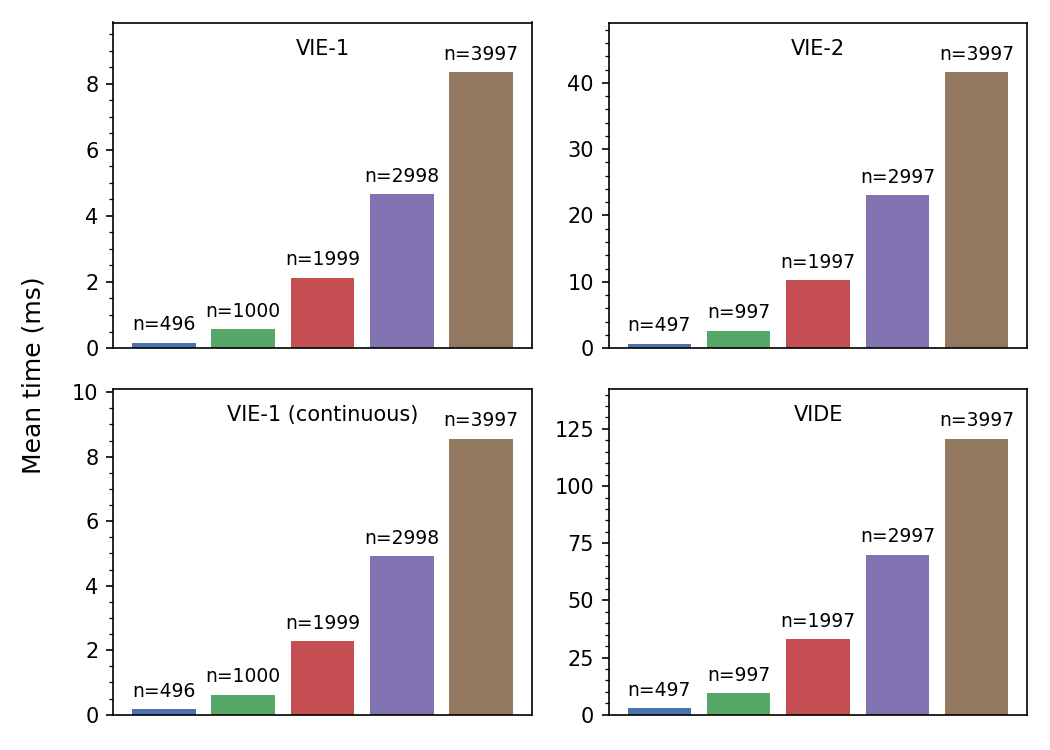
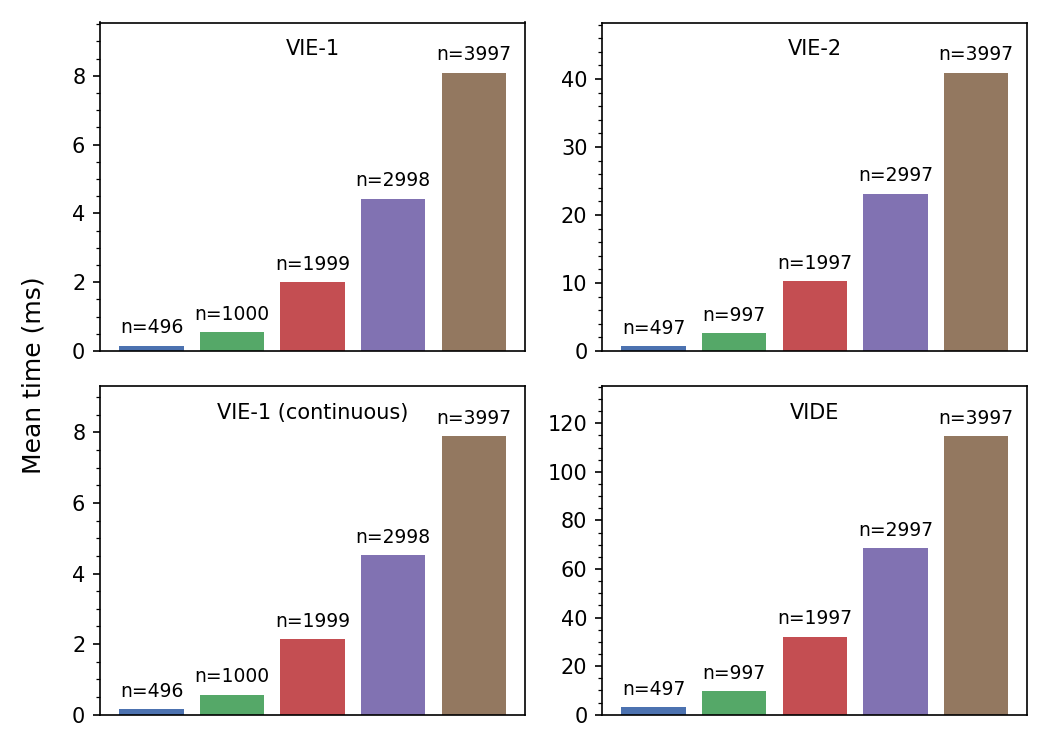
Add vector solver benchmarks, charts, and README section
- bench_solvers.py: add d=2 benchmarks for VIE-1 vec, VIE-2 vec, VIDE vec
  (5 problem sizes each, skipped if D extension unavailable)
- plot_results.py: refactored to generate both results.png (scalar) and
  results_vec.png (vector) from a single benchmark JSON run
- bench.yml: commit both chart files on benchmark runs
- README.md: add Vector-valued systems section with 2x2 VIE-2 example
  and reference both benchmark charts

diff --git a/benchmarks/bench_solvers.py b/benchmarks/bench_solvers.py
@@ -1,6 +1,11 @@
 import numpy as np
 import pytest
 from volterra_equation_solvers import solve_VIE_1, solve_VIE_2, solve_VIDE
+from volterra_equation_solvers._dlang import available as _dlang_available
+
+_requires_dlang = pytest.mark.skipif(
+    not _dlang_available, reason="D extension not available"
+)
 
 # --- VIE-2 (coll_divs=2, pts = n_intervals*4+1) ---
 
@@ -126,3 +131,134 @@ def test_vide_4000(benchmark):
     kernel, g, a, dt = _vide_inputs(999)       # 3997 pts
     benchmark(solve_VIDE, kernel_values=kernel, g_values=g, a_values=a,
               soln_init_value=0.0, time_step=dt)
+
+
+# --- Vector VIE-1  (d=2, coll_divs=3, pts = n_intervals*9+1) ---
+# Diagonal system: K(s) = exp(s)*I₂, y=[sin t, sin t], g=[sin t, sin t]
+
+def _vie1_vec_inputs(n_intervals):
+    time_step = 0.01
+    num_pts = n_intervals * 9 + 1
+    times = np.arange(num_pts) * time_step
+    kernel = np.zeros((num_pts, 2, 2))
+    kernel[:, 0, 0] = np.exp(times)
+    kernel[:, 1, 1] = np.exp(times)
+    g = np.column_stack([np.sin(times), np.sin(times)])
+    g[0] = 0.0
+    return kernel, g, time_step
+
+@_requires_dlang
+def test_vie1_vec_500(benchmark):
+    kernel, g, dt = _vie1_vec_inputs(55)       # 496 pts
+    benchmark(solve_VIE_1, kernel_values=kernel, g_values=g, time_step=dt)
+
+@_requires_dlang
+def test_vie1_vec_1000(benchmark):
+    kernel, g, dt = _vie1_vec_inputs(111)      # 1000 pts
+    benchmark(solve_VIE_1, kernel_values=kernel, g_values=g, time_step=dt)
+
+@_requires_dlang
+def test_vie1_vec_2000(benchmark):
+    kernel, g, dt = _vie1_vec_inputs(222)      # 1999 pts
+    benchmark(solve_VIE_1, kernel_values=kernel, g_values=g, time_step=dt)
+
+@_requires_dlang
+def test_vie1_vec_3000(benchmark):
+    kernel, g, dt = _vie1_vec_inputs(333)      # 2998 pts
+    benchmark(solve_VIE_1, kernel_values=kernel, g_values=g, time_step=dt)
+
+@_requires_dlang
+def test_vie1_vec_4000(benchmark):
+    kernel, g, dt = _vie1_vec_inputs(444)      # 3997 pts
+    benchmark(solve_VIE_1, kernel_values=kernel, g_values=g, time_step=dt)
+
+
+# --- Vector VIE-2  (d=2, coll_divs=2, pts = n_intervals*4+1) ---
+# Diagonal system: K(s) = exp(-s)*I₂, y=[sin t, sin t]
+
+def _vie2_vec_inputs(n_intervals):
+    time_step = 0.05
+    num_pts = n_intervals * 4 + 1
+    times = np.arange(num_pts) * time_step
+    kernel = np.zeros((num_pts, 2, 2))
+    kernel[:, 0, 0] = np.exp(-times)
+    kernel[:, 1, 1] = np.exp(-times)
+    rhs = np.sin(times) - 0.5 * (np.exp(-times) + np.sin(times) - np.cos(times))
+    g = np.column_stack([rhs, rhs])
+    return kernel, g, time_step
+
+@_requires_dlang
+def test_vie2_vec_500(benchmark):
+    kernel, g, dt = _vie2_vec_inputs(124)      # 497 pts
+    benchmark(solve_VIE_2, kernel_values=kernel, g_values=g, time_step=dt)
+
+@_requires_dlang
+def test_vie2_vec_1000(benchmark):
+    kernel, g, dt = _vie2_vec_inputs(249)      # 997 pts
+    benchmark(solve_VIE_2, kernel_values=kernel, g_values=g, time_step=dt)
+
+@_requires_dlang
+def test_vie2_vec_2000(benchmark):
+    kernel, g, dt = _vie2_vec_inputs(499)      # 1997 pts
+    benchmark(solve_VIE_2, kernel_values=kernel, g_values=g, time_step=dt)
+
+@_requires_dlang
+def test_vie2_vec_3000(benchmark):
+    kernel, g, dt = _vie2_vec_inputs(749)      # 2997 pts
+    benchmark(solve_VIE_2, kernel_values=kernel, g_values=g, time_step=dt)
+
+@_requires_dlang
+def test_vie2_vec_4000(benchmark):
+    kernel, g, dt = _vie2_vec_inputs(999)      # 3997 pts
+    benchmark(solve_VIE_2, kernel_values=kernel, g_values=g, time_step=dt)
+
+
+# --- Vector VIDE  (d=2, coll_divs=2, pts = n_intervals*4+1) ---
+# Diagonal system: K(s) = exp(-s)*I₂, a(t) = 1/(1+t²)*I₂, y=[sin t, sin t]
+
+def _vide_vec_inputs(n_intervals):
+    time_step = 0.01
+    num_pts = n_intervals * 4 + 1
+    times = np.arange(num_pts) * time_step
+    kernel = np.zeros((num_pts, 2, 2))
+    a = np.zeros((num_pts, 2, 2))
+    kernel[:, 0, 0] = np.exp(-times)
+    kernel[:, 1, 1] = np.exp(-times)
+    a[:, 0, 0] = 1.0 / (1.0 + times**2)
+    a[:, 1, 1] = 1.0 / (1.0 + times**2)
+    rhs = (np.cos(times)
+           - 0.5 * (np.exp(-times) + np.sin(times) - np.cos(times))
+           - np.sin(times) / (1.0 + times**2))
+    g = np.column_stack([rhs, rhs])
+    soln_init = np.zeros(2)
+    return kernel, g, a, soln_init, time_step
+
+@_requires_dlang
+def test_vide_vec_500(benchmark):
+    kernel, g, a, init, dt = _vide_vec_inputs(124)   # 497 pts
+    benchmark(solve_VIDE, kernel_values=kernel, g_values=g, a_values=a,
+              soln_init_value=init, time_step=dt)
+
+@_requires_dlang
+def test_vide_vec_1000(benchmark):
+    kernel, g, a, init, dt = _vide_vec_inputs(249)   # 997 pts
+    benchmark(solve_VIDE, kernel_values=kernel, g_values=g, a_values=a,
+              soln_init_value=init, time_step=dt)
+
+@_requires_dlang
+def test_vide_vec_2000(benchmark):
+    kernel, g, a, init, dt = _vide_vec_inputs(499)   # 1997 pts
+    benchmark(solve_VIDE, kernel_values=kernel, g_values=g, a_values=a,
+              soln_init_value=init, time_step=dt)
+
+@_requires_dlang
+def test_vide_vec_3000(benchmark):
+    kernel, g, a, init, dt = _vide_vec_inputs(749)   # 2997 pts
+    benchmark(solve_VIDE, kernel_values=kernel, g_values=g, a_values=a,
+              soln_init_value=init, time_step=dt)
+
+@_requires_dlang
+def test_vide_vec_4000(benchmark):
+    kernel, g, a, init, dt = _vide_vec_inputs(999)   # 3997 pts
+    benchmark(solve_VIDE, kernel_values=kernel, g_values=g, a_values=a,
+              soln_init_value=init, time_step=dt)

diff --git a/benchmarks/plot_results.py b/benchmarks/plot_results.py
@@ -1,25 +1,41 @@
 #!/usr/bin/env python3
-"""Generate a vertically stacked benchmark bar chart from pytest-benchmark JSON output.
+"""Generate benchmark bar charts from pytest-benchmark JSON output.
+
+Produces two files:
+  <output_path>          — scalar solvers (2×2 grid)
+  <stem>_vec<suffix>     — vector solvers (1×3 row)
 
 Usage: python benchmarks/plot_results.py output.json benchmarks/results.png
 """
 
 import json
 import sys
+from pathlib import Path
 
 import matplotlib.pyplot as plt
 import numpy as np
 
 
-def main(json_path, output_path):
-    with open(json_path) as f:
-        data = json.load(f)
+COLORS = ["#4C72B0", "#55A868", "#C44E52", "#8172B2", "#937860"]
 
-    times = {b["name"].split("::")[-1]: b["stats"]["mean"]
-             for b in data["benchmarks"]}
 
-    # (solver, [(benchmark_name, actual_n_pts), ...])
-    # Order is column-major: left column first (top→bottom), then right column
+def _bar_subplot(ax, title, cases, times):
+    x = np.arange(len(cases))
+    bar_times = [times[name] * 1e3 for name, _ in cases]
+    bars = ax.bar(x, bar_times, color=COLORS)
+    ax.text(0.5, 0.95, title, transform=ax.transAxes,
+            ha="center", va="top", fontsize=10)
+    ax.set_xticks([])
+    ax.yaxis.set_minor_locator(plt.matplotlib.ticker.AutoMinorLocator())
+    for bar, (_, n) in zip(bars, cases):
+        ax.annotate(f"n={n}",
+                    xy=(bar.get_x() + bar.get_width() / 2, bar.get_height()),
+                    xytext=(0, 4), textcoords="offset points",
+                    ha="center", va="bottom", fontsize=9)
+    ax.set_ylim(top=max(bar_times) * 1.18)
+
+
+def generate_scalar_chart(times, output_path):
     groups = [
         ("VIE-1",
          [("test_vie1_500",   496), ("test_vie1_1000", 1000),
@@ -39,33 +55,63 @@ def main(json_path, output_path):
           ("test_vide_4000", 3997)]),
     ]
 
-    colors = ["#4C72B0", "#55A868", "#C44E52", "#8172B2", "#937860"]
+    # Skip if any benchmark is missing (e.g. partial run)
+    if not all(name in times for _, cases in groups for name, _ in cases):
+        print("Skipping scalar chart: some benchmarks missing")
+        return
 
     fig, axes = plt.subplots(2, 2, figsize=(7, 5), sharex=True)
-
     for ax, (solver_name, cases) in zip(axes.T.flat, groups):
-        x = np.arange(len(cases))
-        bar_times = [times[name] * 1e3 for name, _ in cases]
-
-        bars = ax.bar(x, bar_times, color=colors)
-        ax.text(0.5, 0.95, solver_name, transform=ax.transAxes,
-                ha="center", va="top", fontsize=10)
-        ax.set_xticks([])
-        ax.yaxis.set_minor_locator(plt.matplotlib.ticker.AutoMinorLocator())
-
-        for bar, (_, n) in zip(bars, cases):
-            ax.annotate(f"n={n}",
-                        xy=(bar.get_x() + bar.get_width() / 2, bar.get_height()),
-                        xytext=(0, 4), textcoords="offset points",
-                        ha="center", va="bottom", fontsize=9)
-
-        ax.set_ylim(top=max(bar_times) * 1.18)
-
+        _bar_subplot(ax, solver_name, cases, times)
     fig.supylabel("Mean time (ms)")
     fig.tight_layout()
     fig.savefig(output_path, dpi=150)
     plt.close(fig)
-    print(f"Saved chart to {output_path}")
+    print(f"Saved scalar chart to {output_path}")
+
+
+def generate_vec_chart(times, output_path):
+    groups = [
+        ("VIE-1 (vector, d=2)",
+         [("test_vie1_vec_500",   496), ("test_vie1_vec_1000", 1000),
+          ("test_vie1_vec_2000", 1999), ("test_vie1_vec_3000", 2998),
+          ("test_vie1_vec_4000", 3997)]),
+        ("VIE-2 (vector, d=2)",
+         [("test_vie2_vec_500",   497), ("test_vie2_vec_1000",  997),
+          ("test_vie2_vec_2000", 1997), ("test_vie2_vec_3000", 2997),
+          ("test_vie2_vec_4000", 3997)]),
+        ("VIDE (vector, d=2)",
+         [("test_vide_vec_500",   497), ("test_vide_vec_1000",  997),
+          ("test_vide_vec_2000", 1997), ("test_vide_vec_3000", 2997),
+          ("test_vide_vec_4000", 3997)]),
+    ]
+
+    if not all(name in times for _, cases in groups for name, _ in cases):
+        print("Skipping vector chart: some benchmarks missing (D extension required)")
+        return
+
+    fig, axes = plt.subplots(1, 3, figsize=(9, 3))
+    for ax, (solver_name, cases) in zip(axes, groups):
+        _bar_subplot(ax, solver_name, cases, times)
+    fig.supylabel("Mean time (ms)")
+    fig.tight_layout()
+    fig.savefig(output_path, dpi=150)
+    plt.close(fig)
+    print(f"Saved vector chart to {output_path}")
+
+
+def main(json_path, output_path):
+    with open(json_path) as f:
+        data = json.load(f)
+
+    times = {b["name"].split("::")[-1]: b["stats"]["mean"]
+             for b in data["benchmarks"]}
+
+    p = Path(output_path)
+    vec_path = p.with_name(p.stem + "_vec" + p.suffix)
+
+    generate_scalar_chart(times, output_path)
+    generate_vec_chart(times, vec_path)
 
 
 if __name__ == "__main__":

diff --git a/README.md b/README.md
@@ -62,11 +62,49 @@ print(f"Max error: {max(abs(soln - np.sin(times))):.2e}")
 
 All solvers accept `return_polys=True` to also return the piecewise polynomial solution as a list of `numpy.polynomial.Polynomial` objects.
 
+## Vector-valued systems
+
+`solve_VIE_1`, `solve_VIE_2`, and `solve_VIDE` also solve for vector-valued unknowns $\mathbf{y}(t) \in \mathbb{R}^d$, where the kernel $K$ and coefficient $a$ become $d \times d$ matrix-valued functions:
+
+$$\mathbf{y}(t) = \mathbf{g}(t) + \int_0^t K(t-s)\,\mathbf{y}(s)\,ds$$
+
+Pass `kernel_values` as an `(N, d, d)` array and `g_values` as an `(N, d)` array:
+
+```python
+import numpy as np
+from volterra_equation_solvers import solve_VIE_2
+
+# 2×2 system: y_j(t) = sin(t), j = 0, 1
+# K(s) = exp(-s) * I₂,  exact solution y = [sin t, sin t]
+d = 2
+time_step = 0.05
+times = np.arange(0, 2.05, time_step)
+N = len(times)
+
+kernel = np.zeros((N, d, d))
+kernel[:, 0, 0] = np.exp(-times)
+kernel[:, 1, 1] = np.exp(-times)
+
+g = np.zeros((N, d))
+g[:, 0] = np.sin(times) - 0.5 * (np.exp(-times) + np.sin(times) - np.cos(times))
+g[:, 1] = g[:, 0]
+
+soln = solve_VIE_2(kernel_values=kernel, g_values=g, time_step=time_step)
+# soln shape: (N, 2);  soln[:, j] ≈ sin(times) for j = 0, 1
+print(f"Max error: {np.max(np.abs(soln - np.sin(times)[:, None])):.2e}")
+```
+
+> **Note:** Vector-valued solvers require the D extension and are not available through the Numba fallback.
+
 ## Benchmarks
 
 Run on a **12th Gen Intel(R) Core(TM) i5-12600KF**. Mean time is averaged over a variable number of automatically-calibrated rounds (from ~9 for large inputs up to ~6000 for small inputs).
 
-![Benchmarks](benchmarks/results.png)
+![Scalar benchmarks](benchmarks/results.png)
+
+**Vector solvers** (D extension, d=2):
+
+![Vector benchmarks](benchmarks/results_vec.png)
 
 ## Input format
 